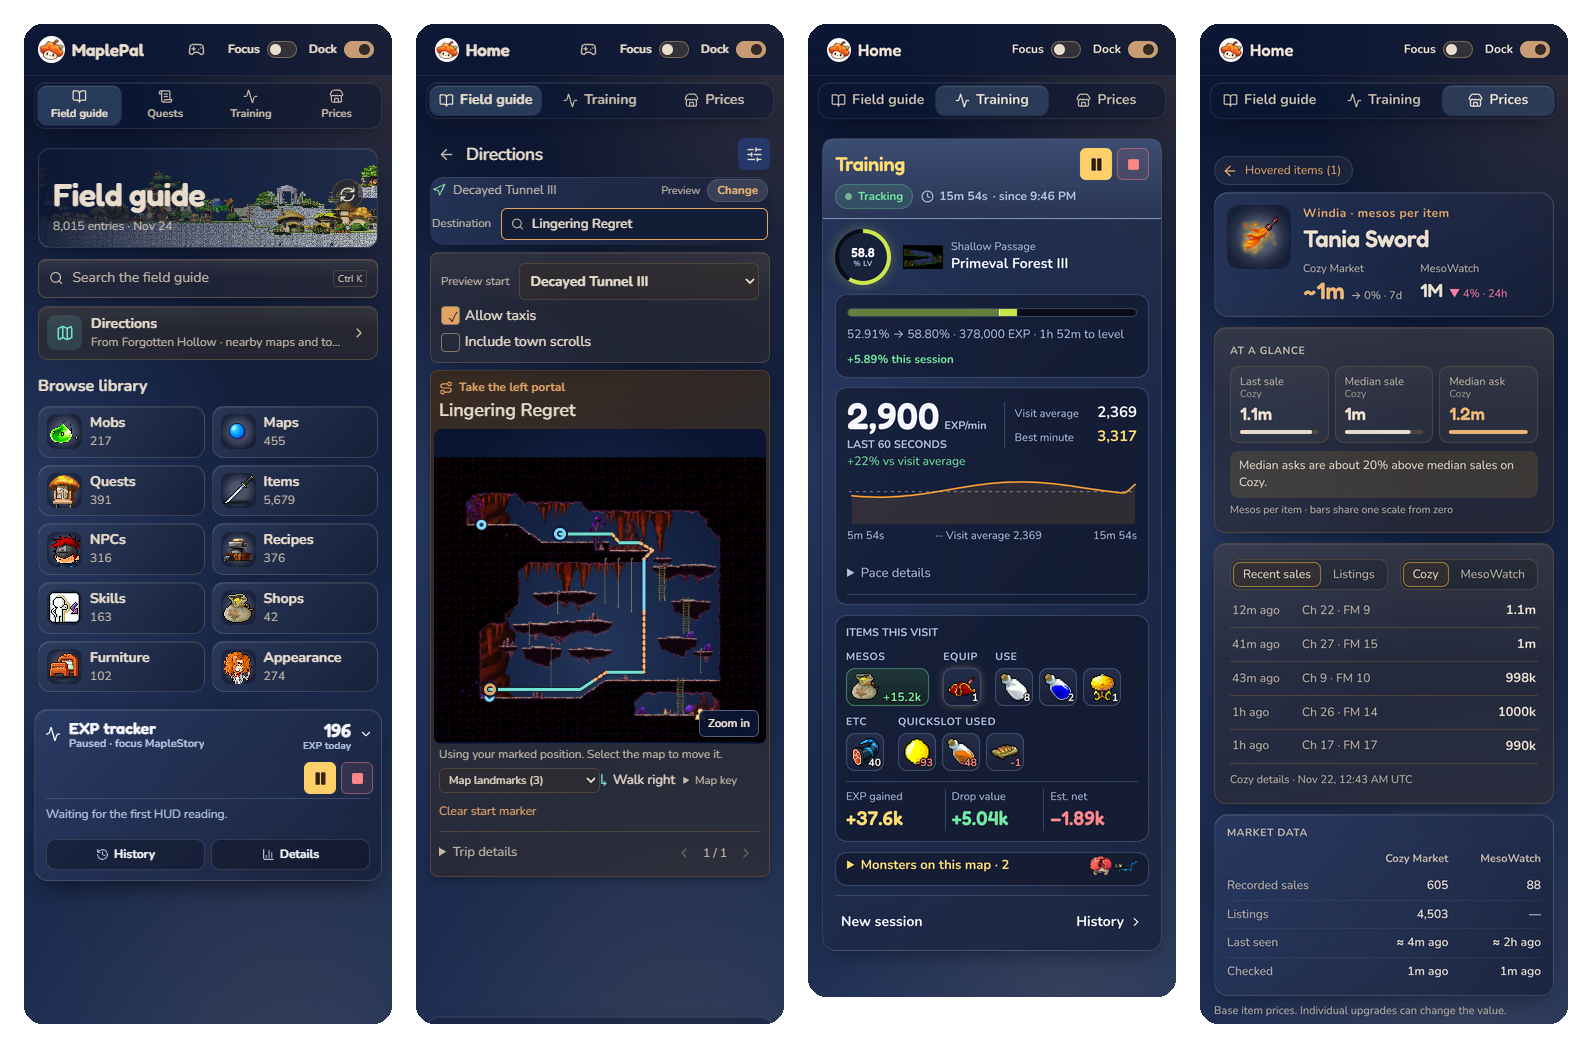
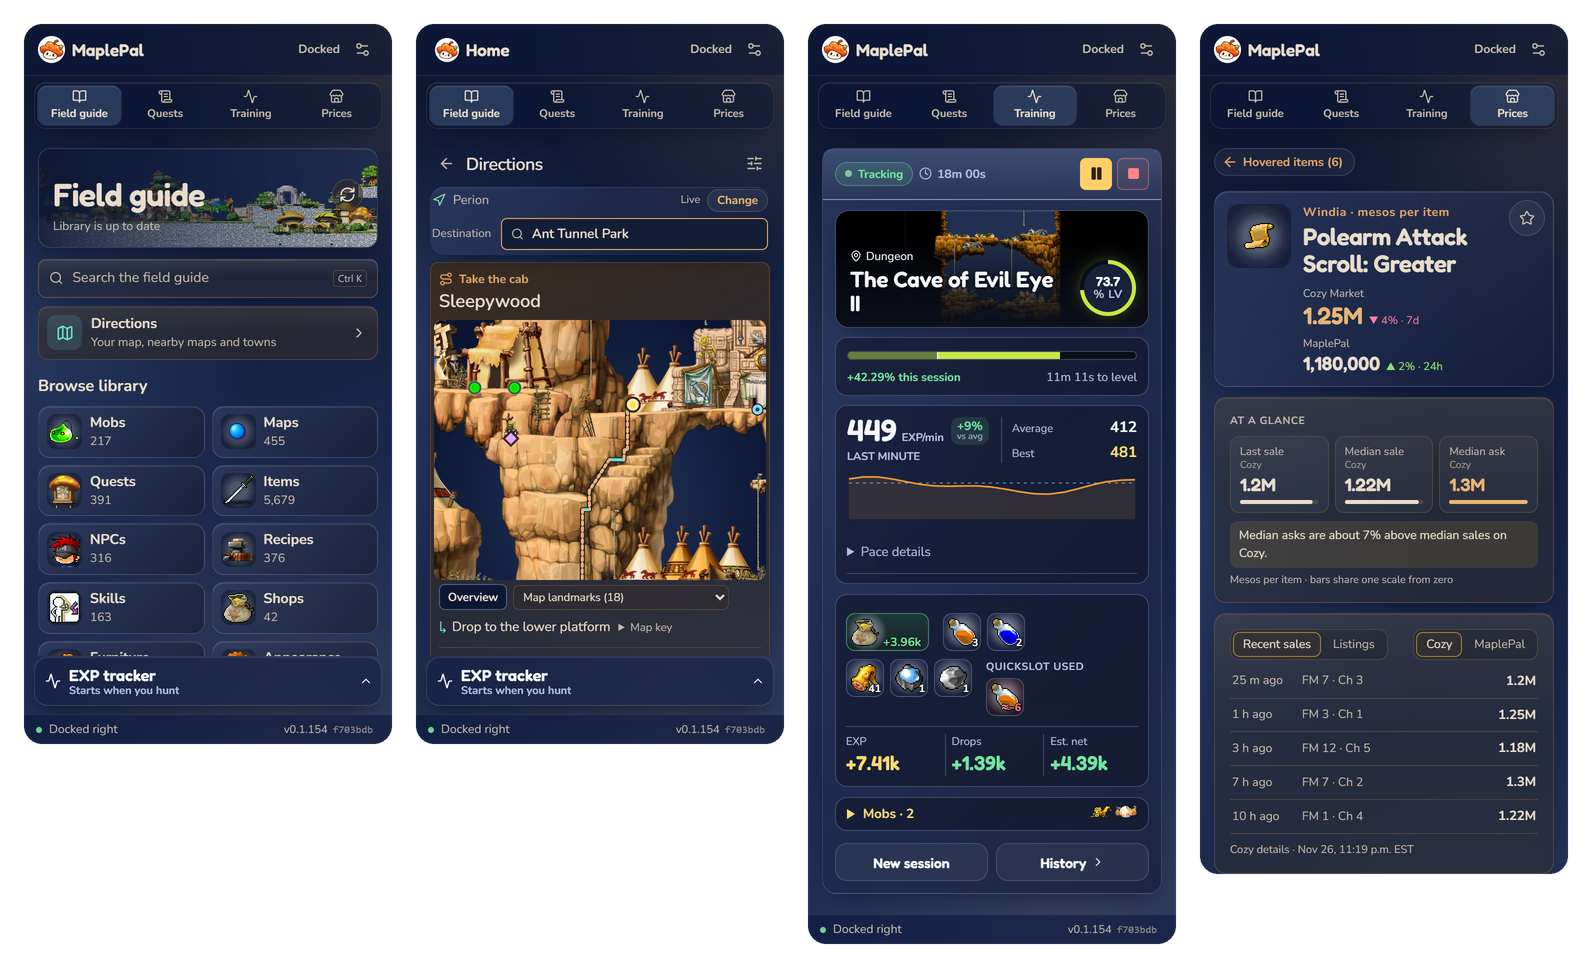
README: current features and install steps, new screenshots

diff --git a/README.md b/README.md
@@ -5,7 +5,7 @@
 # MaplePal Field Guide
 
 **A glass companion window that docks beside MapleStory.**<br>
-Look anything up, get directions from where you stand, follow your quests and see what your training is really earning, without alt-tabbing to a wiki.
+Look anything up, get directions from where you stand, follow your quests, find where to train and see what your training is really earning, without alt-tabbing to a wiki.
 
 <a href="https://github.com/gagandeepgill/maple-pal-public/releases/latest/download/MaplePal-Field-Guide-setup.exe"><img alt="Download for Windows (setup.exe)" src="docs/badges/download.svg" height="44"></a>
 
@@ -28,60 +28,69 @@ Look anything up, get directions from where you stand, follow your quests and se
 ## What it does
 
 ### <img src="docs/icons/field-guide.png" width="36" height="36" align="center" alt=""> Field guide
-Search one catalog of mobs, maps, quests, items, NPCs, recipes, skills, shops, furniture and appearances. Press <kbd>Ctrl</kbd> <kbd>K</kbd> to search, then open a record to see its stats, drops, spawn maps and where to find it. Everything is local, so results show up as you type.
+Search one catalog of mobs, maps, quests, items, NPCs, recipes, skills, shops, furniture and appearances. Press <kbd>Ctrl</kbd> <kbd>K</kbd> to search, then open a record to see its stats, drops, spawn maps and where to find it. Item pages also show the NPC sell price and which shops sell scarce potions. Everything is on your PC, so results show up as you type, and the library refreshes itself after a game patch.
 
 ### <img src="docs/icons/directions.png" width="36" height="36" align="center" alt=""> Directions from where you stand
-Pick a destination and the guide reads your minimap to find out where you are. It then draws the route on the real map art: which portal to take, when to climb, and when a taxi or town scroll is quicker.
+Pick a destination, or one of the main towns and your recent trips, and the guide reads your minimap to find out where you are. It then draws the route on the real map art: which portal to take, when to climb, and when a taxi or town scroll is quicker. If your minimap is minimised or covered, it tells you so.
 
 ### <img src="docs/icons/quests.png" width="36" height="36" align="center" alt=""> Quest guide
-<img src="docs/quests.png" alt="Quest guide card with accept, collect and turn-in steps" width="420" align="right">
+<img src="docs/quests.png" alt="Quest guide card with accept, collect and turn-in steps, and the Quest accepted notice" width="420" align="right">
 
-Each quest is laid out as **Accept → Collect → Turn in**, with the map, the monster and how far away it is. The guide reads your quest log and Etc inventory to know which step you're on. **Plan all quests in one route** chains a whole questline into one trip.
+Each quest is laid out as **Accept → Collect → Turn in**, with the map, the monster and how far away it is. The guide reads your quest log and Etc inventory to know which step you're on. When you accept a quest at an NPC, a small **Quest accepted** notice shows its first step and fades after a few seconds. Click **Guide** to open its quest guide.
 
 <br clear="right">
 
 ### <img src="docs/icons/training.png" width="36" height="36" align="center" alt=""> Training tracker
-Start tracking and the widget reads your EXP bar: EXP per minute, your best minute, time to next level, and how this visit compares with your average. It also counts mesos and drops, the potions you used and their cost, and your kills (yours and your party's), and shows your net profit. It can start by itself once you're hunting. Every visit is saved to **History** so you can compare maps.
+Start tracking and the widget reads your EXP bar: EXP per minute, your best minute, time to next level, and how this visit compares with your average. It also counts mesos and drops, the potions you used and their cost, and your kills (yours and your party's), and shows your net profit. It starts by itself once you're hunting, and reminds you when your inventory is full. Every visit is saved to **History**, grouped by day with that day's EXP.
 
-<p align="center"><img src="docs/training.png" alt="Live training session" width="300">&nbsp;&nbsp;<img src="docs/visit.png" alt="A saved visit in History" width="300"></p>
+**Where to train** suggests maps for your level and shows your own measured pace on maps you've trained on. Save your build (**I'm wearing this** on an equip's page fills it in). Thieves using Lucky Seven also get the maps ranked by estimated EXP per minute for that build, and more classes are on the way.
+
+<p align="center"><img src="docs/where-to-train.png" alt="Where to train, ranked for a saved build" width="300">&nbsp;&nbsp;<img src="docs/history.png" alt="Training History grouped by day" width="300"></p>
 
 ### <img src="docs/icons/prices.png" width="36" height="36" align="center" alt=""> Prices
-Hover over an item in MapleStory and its price shows up in the widget: the last sale, median sale and median asking price, recent sales by channel, and how the price moved this week. Prices come from Cozy Market and a shared price list.
+<img src="docs/price-watch.png" alt="Watched items with price targets" width="300" align="right">
+
+Hover over an item in MapleStory and its price shows up in the widget: the last sale, median sale and median asking price, recent sales by channel, and how the price moved this week. Turn on **Watch price** on an item page, set a target, and the Prices tab tells you when it's reached. Prices come from Cozy Market and a shared price list.
+
+<br clear="right">
 
 ### <img src="docs/icons/logo.png" width="36" height="36" align="center" alt=""> Made to sit beside the game
-- **Dock** snaps it to the edge of the screen. **Focus** brings it forward when you return to the game, and MapleStory keeps your keyboard.
+- **Dock** snaps it to the edge of the screen. When the game is full screen, it docks on your second monitor. **Focus** brings it forward when you return to the game, and MapleStory keeps your keyboard.
 - **Open with MapleStory** starts the widget when the game comes to the front.
+- Updates install in the background without a window over the game, and **What's new** lists what changed in each one.
 - It reads only what the game already shows on screen and its installed files. It never changes the game or its files.
 
 ## Install
 
 1. **[Download `MaplePal-Field-Guide-setup.exe`](https://github.com/gagandeepgill/maple-pal-public/releases/latest/download/MaplePal-Field-Guide-setup.exe)** and run it. It installs for your Windows user only, with no admin prompt, and adds a Start menu entry.
 2. If Windows says **"Windows protected your PC"**, click **More info**, then **Run anyway**. This shows up because the installer isn't code-signed yet.
-3. Open **MaplePal Field Guide** from the Start menu. On the first start, click **Download catalog**. The first download takes about 15 to 20 minutes.
-4. In MapleStory's settings, set **UI Size** to **Ideal Ratio**. That's the size the screen readers work best with today. Support for the other UI sizes is still in progress.
-5. If MapleStory isn't installed in `C:\Nexon\Library\maplestorycw`, open **Window settings → Open with MapleStory → Change** and choose its `MapleStory.exe`.
+3. Open **MaplePal Field Guide** from the Start menu. The installer carries the whole library, so it sets itself up on the first start with nothing to download, even offline.
+4. Play at any **UI Size**. The screen readers work with all of them, so keep the one you like.
+5. If MapleStory isn't installed in `C:\Nexon\Library\maplestorycw`, for example if you play through Steam, open **Window settings → Open with MapleStory → Change** and choose its `MapleStory.exe`.
 
 **Requirements:** 64-bit Windows 11, or Windows 10 version 2004 or later. If the PC doesn't have Microsoft Edge WebView2, the installer downloads it.
+
+The release page also lists `MaplePal-Field-Guide-update.exe`. That's the smaller file the widget uses to update itself, without the library, so always install from `setup.exe`.
 
 ## Is it safe?
 
 <table>
 <tr><th>✅ What it does</th><th>🚫 What it never does</th></tr>
 <tr><td valign="top">
-
-- Captures the MapleStory window, the way OBS or a screenshot tool does, to read the minimap, EXP bar and the item you hover over
-- Reads the game's installed files for maps, quests and items
-- Connects to GitHub for updates, to Cozy Market for prices, and to a data server for the item library and shared prices
-- Saves its data in your own user folder
-
+<ul>
+<li>Captures the MapleStory window, the way OBS or a screenshot tool does, to read the minimap, EXP bar and the item you hover over</li>
+<li>Reads the game's installed files for maps, quests and items</li>
+<li>Connects to GitHub for updates and new game data, to Cozy Market for prices, and to a data server for shared prices (and for the library, if GitHub can't be reached)</li>
+<li>Saves its data in your own user folder</li>
+</ul>
 </td><td valign="top">
-
-- Draw on top of the game or hook into it — it's a separate window you dock beside MapleStory, **not an overlay**
-- Read or change the game's memory, or inject anything into the game
-- Press keys or click for you (no botting or macros)
-- Ask for your Nexon or MapleStory login
-- Send your quests, Training history or settings anywhere
-
+<ul>
+<li>Draw on top of the game or hook into it — it's a separate window you dock beside MapleStory, <b>not an overlay</b></li>
+<li>Read or change the game's memory, or inject anything into the game</li>
+<li>Press keys or click for you (no botting or macros)</li>
+<li>Ask for your Nexon or MapleStory login</li>
+<li>Send your quests, Training history or settings anywhere</li>
+</ul>
 </td></tr>
 </table>
 
@@ -105,7 +114,7 @@ Thanks for trying the beta! [Open a report](https://github.com/gagandeepgill/map
 <details>
 <summary><b>How does it update?</b></summary>
 
-It checks for a new version every 30 minutes and downloads it in the background. The update installs when you click **Restart to update**, when you close the widget, or after 10 idle minutes when nothing is being tracked. A small progress bar shows for about 20 seconds. Every update is checked against a signature before it installs.
+It checks for a new version every 30 minutes and downloads it in the background. The update installs when you click **Restart to update**, when you close the widget, or after 10 idle minutes when nothing is being tracked. Updates never show a window over the game, and **What's new** lists the changes afterwards. Every update is checked against a signature before it installs. After a game patch, the library updates itself too.
 </details>
 
 <details>
@@ -129,7 +138,7 @@ Not directly. It's a Windows app, so on a Mac it needs a Windows virtual machine
 <details>
 <summary><b>The Training tracker or Prices show nothing.</b></summary>
 
-Keep the MapleStory window visible, not minimised, with the EXP bar showing. Training reads the HUD, and Prices reads the item you're hovering over. Readings are most reliable with MapleStory's **UI Size** set to **Ideal Ratio**. The other UI sizes are still in progress.
+Keep the MapleStory window visible, not minimised, with the EXP bar showing. Training reads the HUD, and Prices reads the item you're hovering over. If you play through Steam or installed the game outside `C:\Nexon\Library`, choose its `MapleStory.exe` in **Window settings → Open with MapleStory → Change**.
 </details>
 
 <details>
